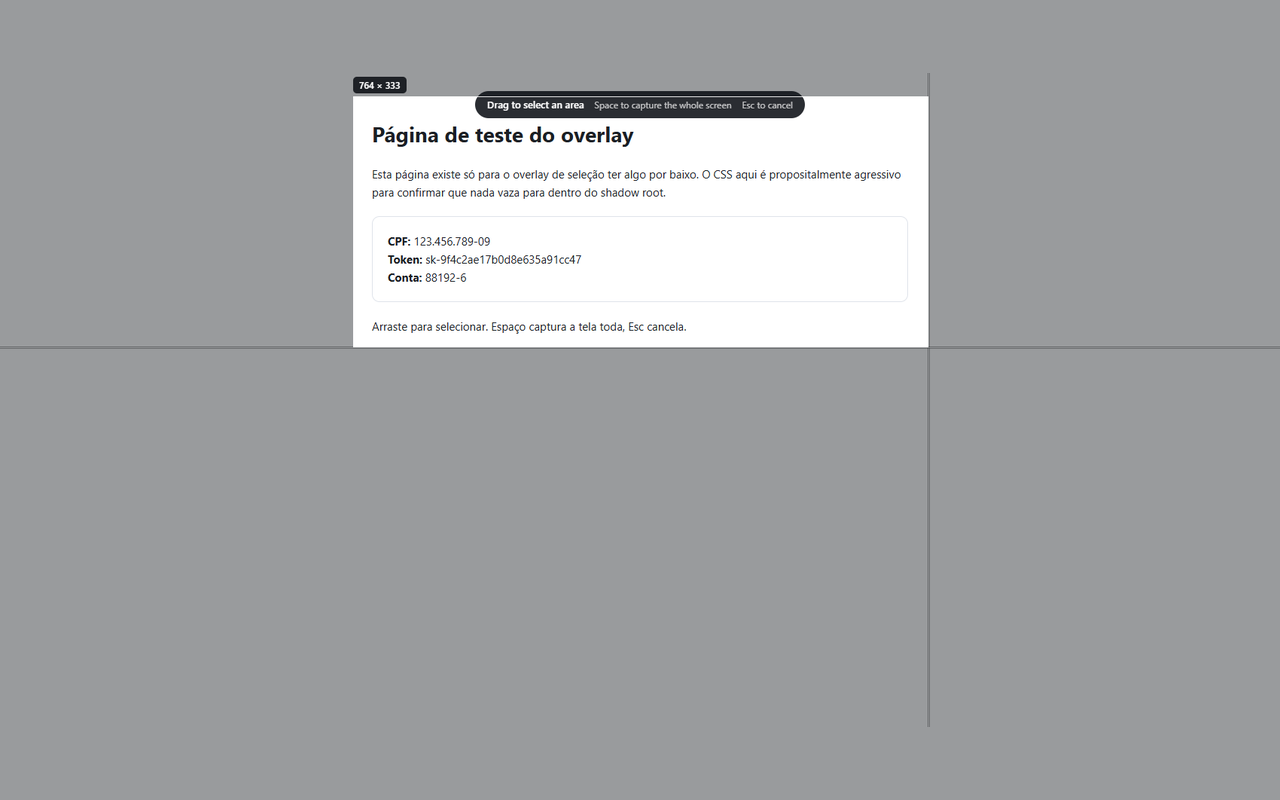
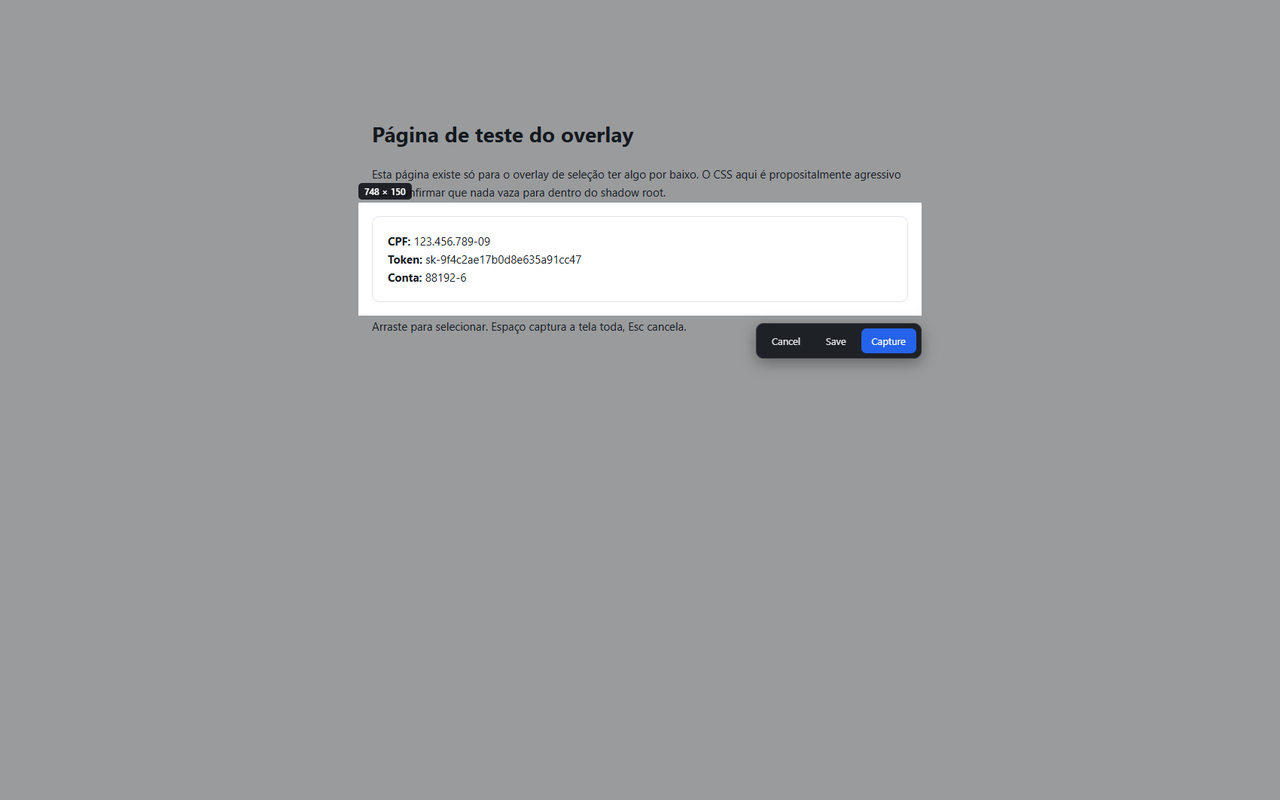
Pagina do overlay-harness enche a viewport
A pagina de teste era curta, entao o overlay escurecia um vazio cinza enorme e
o screenshot da loja - que e a miniatura na busca - saia com 60% da imagem sem
nada. Agora ela tem secoes, tabela de lancamentos e texto suficiente para
ocupar a tela inteira, e o fundo escurecido passa a parecer uma pagina real.

O alvo da selecao ganhou id proprio, para a pagina poder ter outros cartoes sem
confundir o preset.

No make-store-shots.py, entre varios apelidos presentes vence o arquivo mais
recente: uma recaptura salva com nome diferente deve ganhar do arquivo velho,
nao perder para ele por ordem alfabetica.

Changed region(s): [[0.25, 0.0938, 0.75, 0.4688]]

diff --git a/tools/overlay-harness.html b/tools/overlay-harness.html
@@ -7,7 +7,14 @@
     body { margin: 0; font: 15px/1.6 "Segoe UI", system-ui, sans-serif; color: #1b1f24; }
     .page { max-width: 760px; margin: 0 auto; padding: 40px 24px; }
     h1 { font-size: 28px; }
-    .card { border: 1px solid #dfe3ea; border-radius: 10px; padding: 20px; margin: 20px 0; }
+    .card { border: 1px solid #dfe3ea; border-radius: 10px; padding: 20px; margin: 20px 0;
+            background: #fff; }
+    h2 { font-size: 19px; margin: 28px 0 8px; }
+    table { border-collapse: collapse; width: 100%; margin: 12px 0; }
+    th, td { text-align: left; padding: 9px 12px; border-bottom: 1px solid #eceef2; }
+    th { font-size: 13px; text-transform: uppercase; letter-spacing: .04em; color: #6b7280; }
+    td:last-child, th:last-child { text-align: right; }
+    .dica { color: #6b7280; font-size: 14px; margin-top: 28px; }
     /* Deliberately hostile page CSS: the overlay must ignore all of it. */
     div { outline: 0 !important; }
     * { box-sizing: border-box; }
@@ -17,17 +24,40 @@
   </style>
 </head>
 <body>
+  <!--
+    A página precisa encher a viewport inteira. Numa página curta, o overlay
+    escurece um vazio cinza enorme, e o screenshot da loja — que é a miniatura
+    — fica com metade da imagem sem nada.
+  -->
   <div class="page">
-    <h1>Página de teste do overlay</h1>
-    <p>Esta página existe só para o overlay de seleção ter algo por baixo. O CSS
-      aqui é propositalmente agressivo para confirmar que nada vaza para dentro
-      do shadow root.</p>
-    <div class="card">
+    <h1>Painel do cliente</h1>
+    <p>Esta página existe para o overlay de seleção ter algo por baixo. O CSS
+      aqui é propositalmente agressivo, para confirmar que nada vaza para dentro
+      do shadow root do overlay.</p>
+
+    <h2>Dados cadastrais</h2>
+    <p>Titular: Maria Aparecida de Souza Lima · Cliente desde março de 2019 ·
+      Plano Essencial · Faturamento mensal na modalidade pós-paga.</p>
+
+    <div class="card" id="alvo">
       <strong>CPF:</strong> 123.456.789-09<br>
       <strong>Token:</strong> sk-9f4c2ae17b0d8e635a91cc47<br>
       <strong>Conta:</strong> 88192-6
     </div>
-    <p>Arraste para selecionar. Espaço captura a tela toda, Esc cancela.</p>
+
+    <h2>Últimos lançamentos</h2>
+    <table>
+      <tr><th>Data</th><th>Descrição</th><th>Valor</th></tr>
+      <tr><td>02/09</td><td>Mensalidade do plano</td><td>R$ 189,00</td></tr>
+      <tr><td>21/08</td><td>Serviço adicional de armazenamento</td><td>R$ 42,50</td></tr>
+      <tr><td>14/08</td><td>Ajuste proporcional</td><td>R$ 7,80</td></tr>
+      <tr><td>03/08</td><td>Mensalidade do plano</td><td>R$ 189,00</td></tr>
+    </table>
+
+    <h2>Preferências</h2>
+    <p>Notificações por e-mail estão ativas. Cobrança automática desativada.
+      Endereço de entrega cadastrado em Rua das Acacias, 412 - apto 73.</p>
+    <p class="dica">Arraste para selecionar. Espaço captura a tela toda, Esc cancela.</p>
   </div>
 
   <div id="log">aguardando seleção…</div>
@@ -82,7 +112,7 @@
     if (new URLSearchParams(location.search).get('shot') === 'area') {
       const layer = document.getElementById('snaplocal-area-overlay')
                             .shadowRoot.querySelector('.layer');
-      const box = document.querySelector('.card').getBoundingClientRect();
+      const box = document.getElementById('alvo').getBoundingClientRect();
       const pad = 18;
       const send = (type, x, y) => layer.dispatchEvent(new PointerEvent(type, {
         clientX: x, clientY: y, button: 0, buttons: type === 'pointerup' ? 0 : 1,

diff --git a/tools/make-store-shots.py b/tools/make-store-shots.py
@@ -76,8 +76,13 @@ def main():
 
     found = 0
     for name, aliases in SHOTS.items():
-        # Aceita o nome que o navegador deu ao arquivo, nao so o combinado.
-        match = next((available[a] for a in aliases if a in available), None)
+        # Aceita o nome que o navegador deu ao arquivo, nao so o combinado. E
+        # entre varios apelidos presentes vence o mais recente: uma recaptura
+        # com nome diferente deve ganhar do arquivo velho, nao perder para ele.
+        candidates = [available[a] for a in aliases if a in available]
+        match = max(candidates,
+                    key=lambda f: os.path.getmtime(os.path.join(source, f)),
+                    default=None)
         if not match:
             print("%-24s ausente (procurei por: %s)" % (name, ", ".join(aliases)))
             continue
